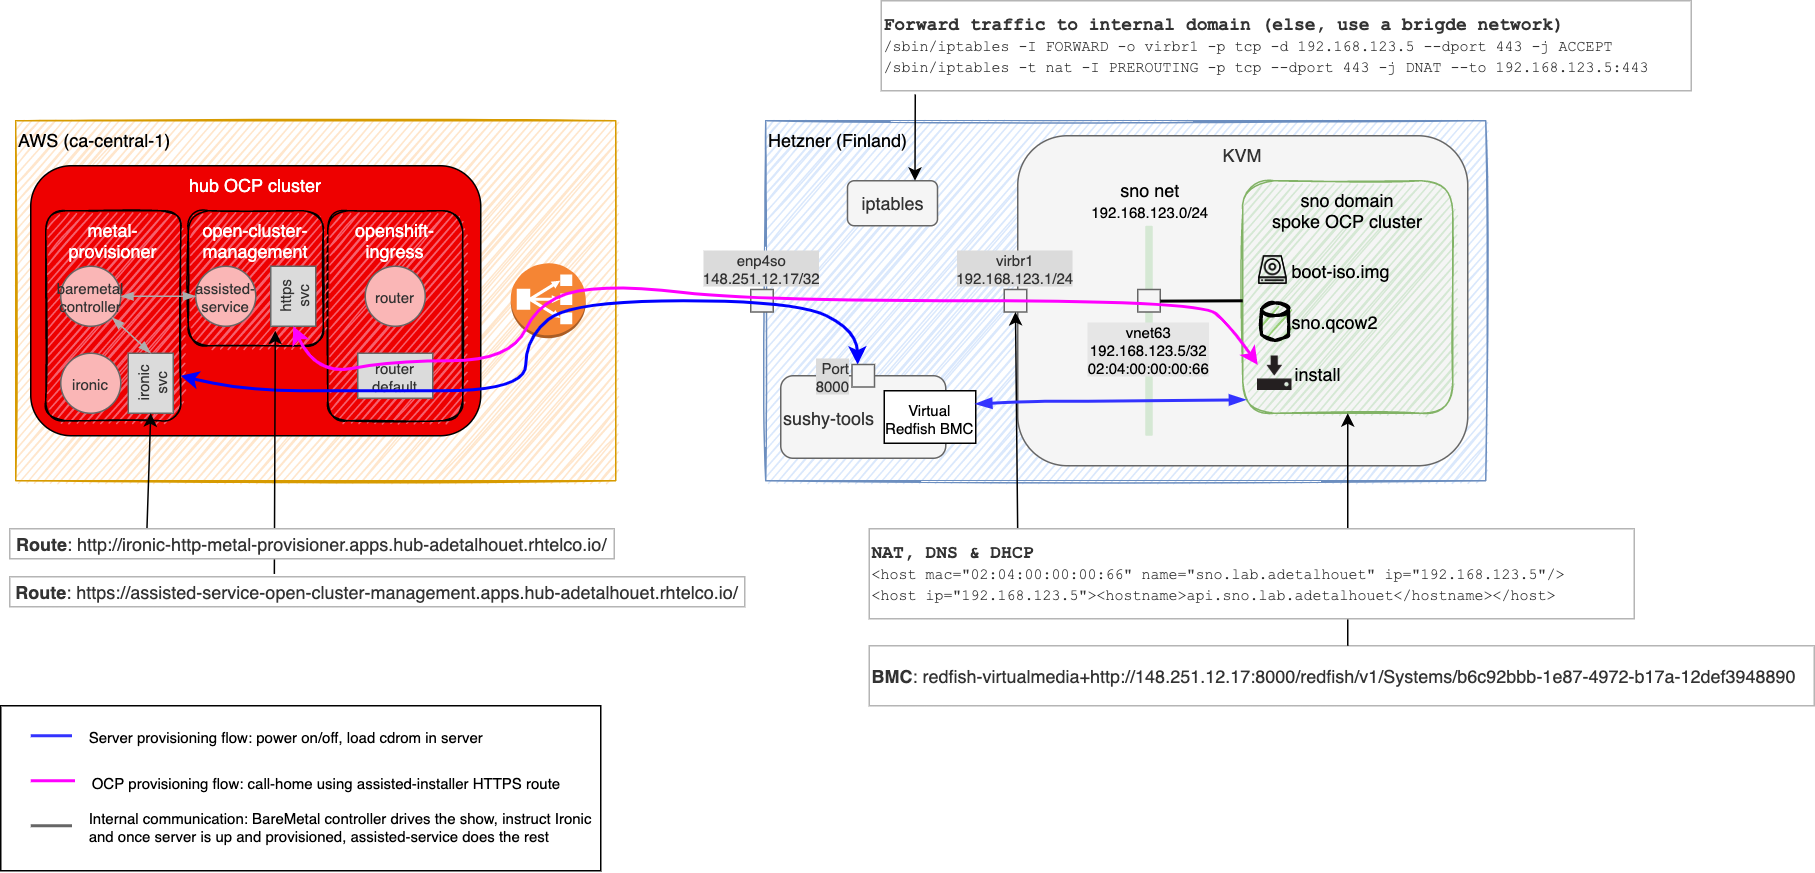
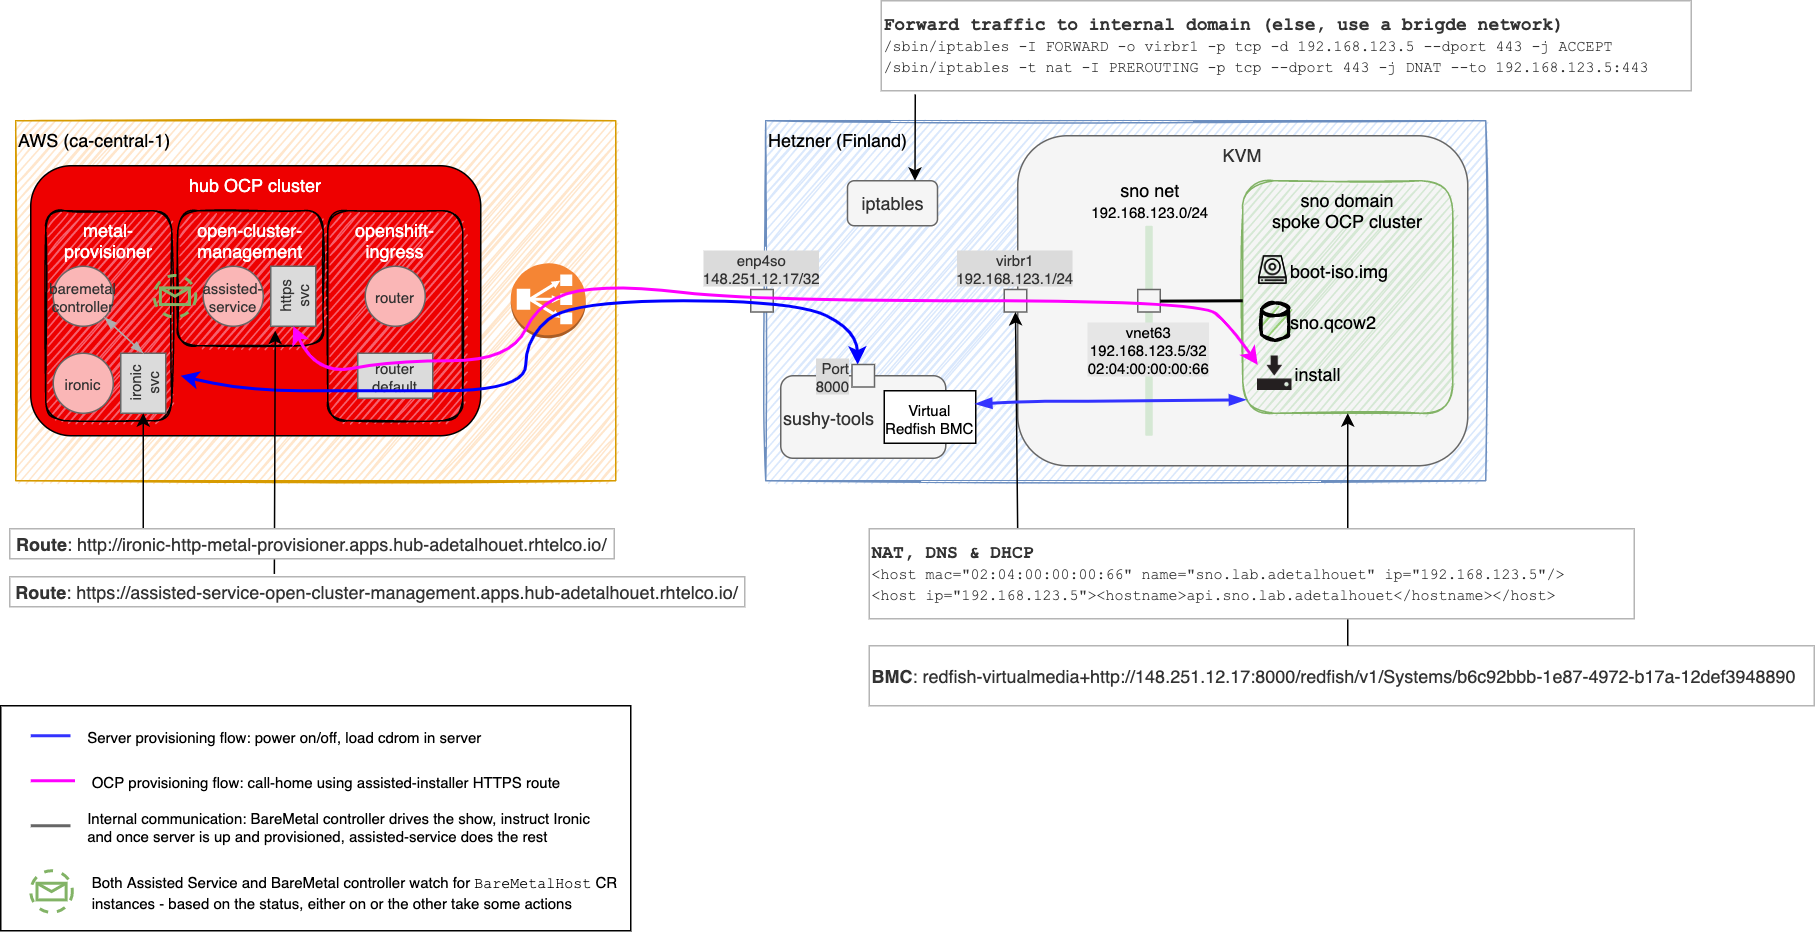
Add missing BMH CRD watch

Changed region(s): [[0.0, 0.0, 1.0, 0.8041], [0.0, 0.7423, 0.3394, 1.0]]

diff --git a/ztp/README.md b/ztp/README.md
@@ -1,6 +1,6 @@
 # Deploy a Single Node OpenShift on libvirt using RHACM ZTP capabilities
 
-The goal is to leverage the latest capabilities from Red Hat Advanced Cluster Management (RHACM) 2.3 to deploy an Single Node OpenShift cluster using the Zero Touch Provisioning on an emulated bare metal environment.
+The goal is to leverage the latest capabilities from Red Hat Advanced Cluster Management (RHACM) 2.3 to deploy a Single Node OpenShift cluster using the Zero Touch Provisioning on an emulated bare metal environment.
 
 The typical Zero Touch Provisioning flow is meant to work for bare metal environment; but if like me, you don't have a bare metal environment handy, or want to optimize the only server you have, that blog is for you.
 
@@ -15,7 +15,7 @@ The overall setup requires the following components:
 Let's align on the Zero Touch Provisioning expectation:
 
 - the overall libvirt environment will be setup manually (although it could easily be automated).
-- once the environment is correctly setup, we will apply the manifests that will automate the cluster creation.
+- once the environment is correctly setup, we will apply the manifests that will automate the spoke cluster creation.
 
 ### Table of Content
 
